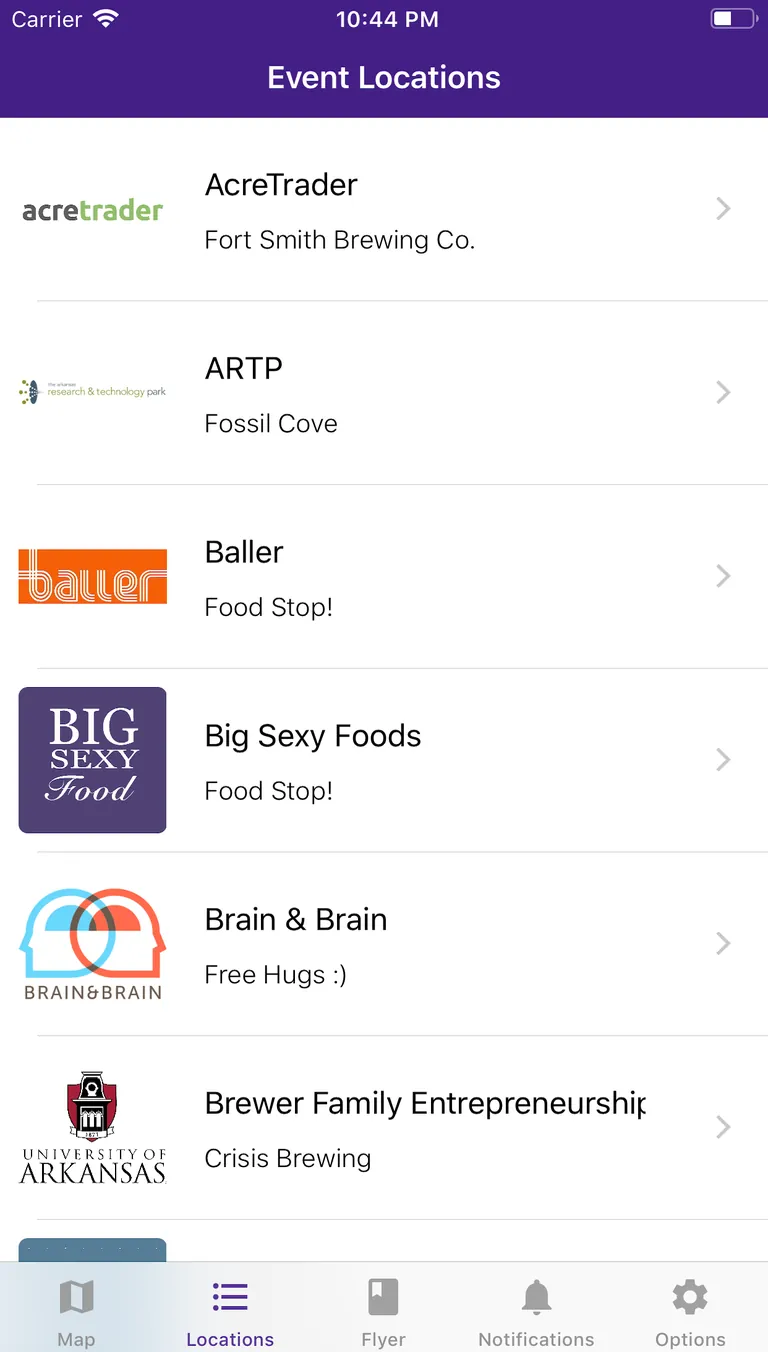
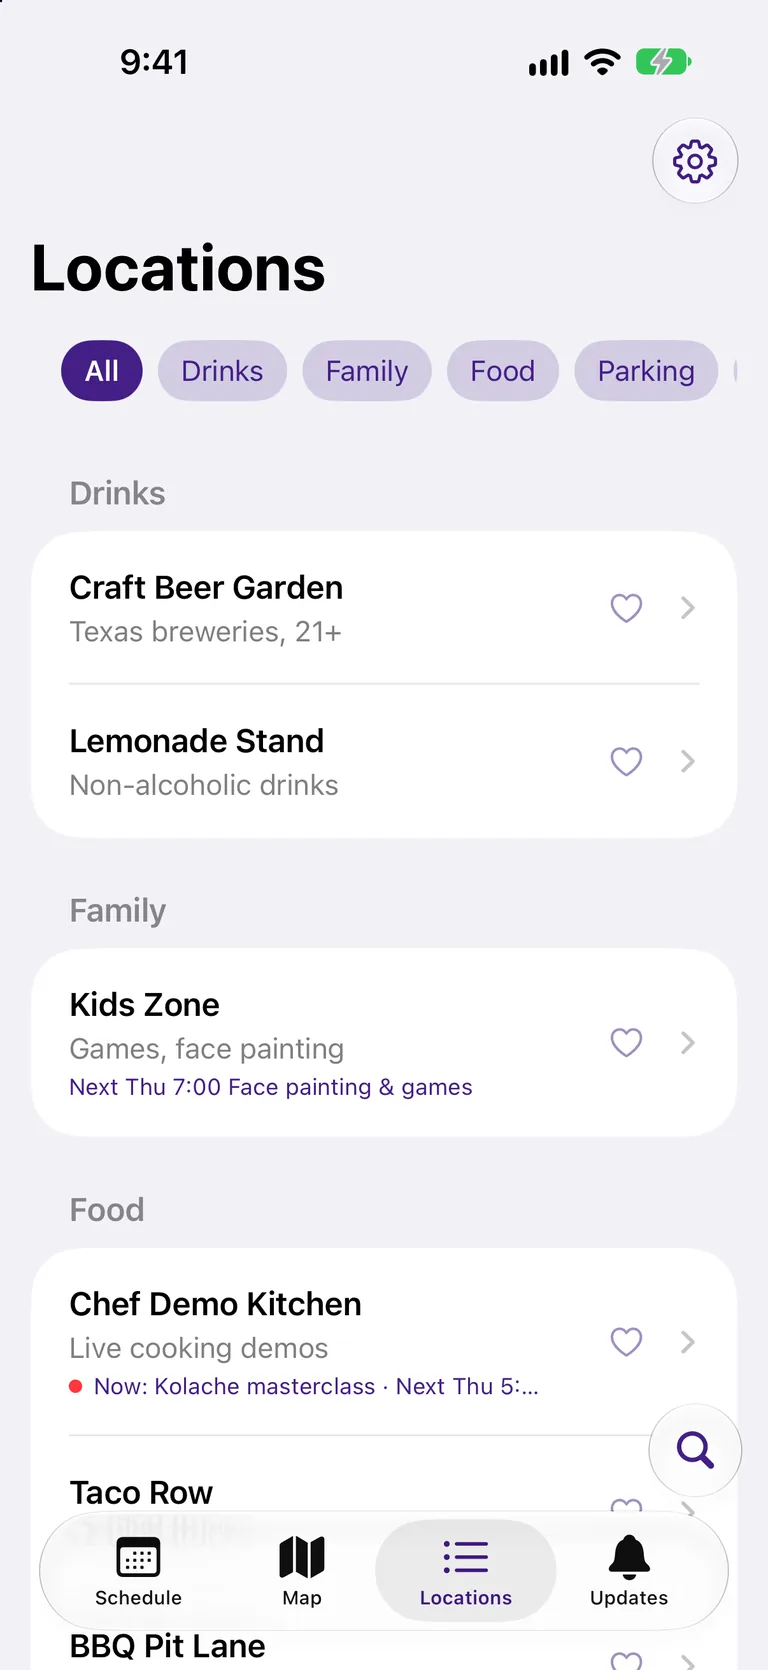
Homepage: the current app screenshots (from the iOS store screenshot pipeline)
Claude-Session: https://claude.ai/code/session_012XUpjnZvA3gsGphXbNVcUk

diff --git a/home/templates/home/home.html b/home/templates/home/home.html
@@ -59,7 +59,7 @@
         {% endif %}
       </div>
     </div>
-    <div class="phone"><div class="screen"><img src="{% static 'home/img/demo-map.webp' %}" alt="The Attnd app showing an event map" width="768" height="1352" fetchpriority="high"></div></div>
+    <div class="phone"><div class="screen"><img src="{% static 'home/img/demo-map.webp' %}" alt="The Attnd app showing an event map" width="768" height="1670" fetchpriority="high"></div></div>
   </div>
 </header>
 
@@ -70,7 +70,7 @@
       <p class="muted">Everything attendees need in one place, and nothing for them to sign up for.</p>
     </div>
     <div class="features-layout">
-      <div class="phone"><div class="screen"><img src="{% static 'home/img/demo-locations.webp' %}" alt="The Attnd app showing a list of locations" width="768" height="1352" loading="lazy" decoding="async"></div></div>
+      <div class="phone"><div class="screen"><img src="{% static 'home/img/demo-locations.webp' %}" alt="The Attnd app showing a list of locations" width="768" height="1670" loading="lazy" decoding="async"></div></div>
       <div class="grid grid--2">
         <div class="feature"><svg class="icon"><use href="#i-stars"/></svg><h3>Built by AI, checked by you</h3>
           <p class="muted">Point us at your website, flyer or program. We pull in every stage, booth and set time, and you review it before anyone sees it.</p></div>

diff --git a/CLAUDE.md b/CLAUDE.md
@@ -97,6 +97,7 @@ brand/          # app-icon-1024.png: the source of every website icon (scripts/m
 - **Google Maps** (`console/static/console/maps.js`) when `GOOGLE_MAPS_BROWSER_KEY` is set: Places autocomplete on addresses, draggable pin map; otherwise the OpenStreetMap picker.
 - **Brand colour** purple `#431f86` (from the app icon) across console, site and apps.
 - **Site icons** (every page includes `home/_icons.html`): `uv run python scripts/make_icons.py` regenerates them from `brand/app-icon-1024.png` (copy of the iOS 1024 app icon; iOS itself went back from the Icon Composer icon to a PNG app icon set on Nov 19, 2026 because `Assets.car` was ~5 MB, and the website's icons stay as they are) into `public/` — `favicon.ico` (16–256), `icon-32/96/192/512.png` (rounded corners, transparent, so Safari and other tabs show the tile without a plate), `apple-touch-icon.png` 180 (full bleed, opaque; iOS/macOS round it), `icon-maskable-512.png`, `site.webmanifest` — and the console manifest's icons. `home/tests.py` checks the sizes and links.
+- **Homepage screenshots** (`home/static/home/img/demo-map.webp`, `demo-locations.webp`, 768×1670): the raw 6.3" captures `raw/iphone-63/1-map.png` and `4-locations.png` from Attnd-iOS's `store-screenshots` artifact, resized with Pillow (WebP, quality 82). Refresh them after a new screenshot run.
 - **Demo data:** `python manage.py load_demo_event [--owner email]` builds the DEMO event (happening now, every feature populated).
 
 ## Diagnostics (API-013, API-014)
